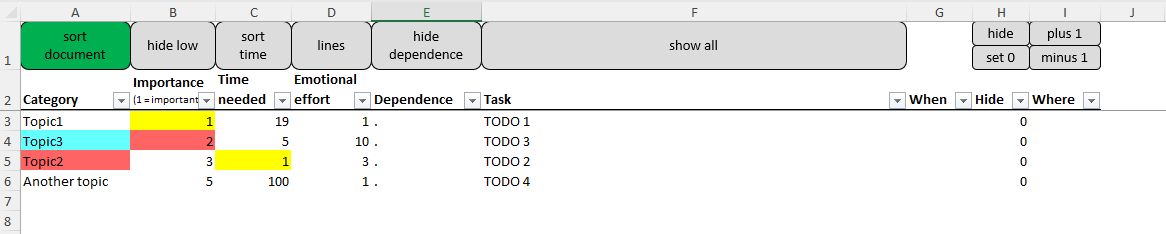
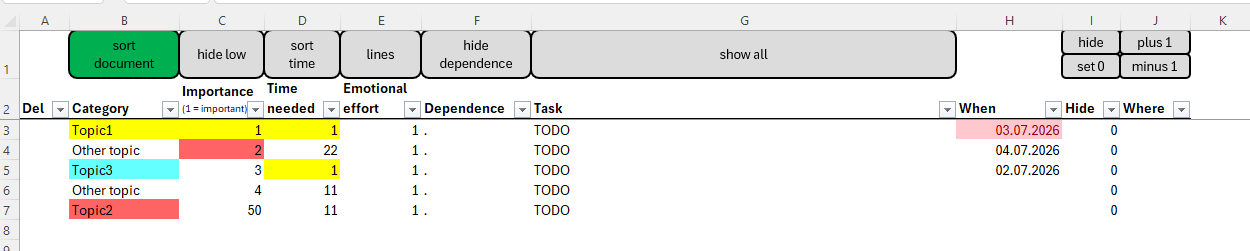
create row control column, minor other changes

diff --git a/README.md b/README.md
@@ -14,8 +14,9 @@ high-priority items, or tasks from specific categories.
 
 The VBA script creates a structured Excel sheet with the following columns:
 
-| Column               | Type      | Description                                                                                                                                                   |
-| -------------------- | --------- | ------------------------------------------------------------------------------------------------------------------------------------------------------------- |
+| Column               | Type      | Description |
+|---|---|---|
+| **Del **                   | x/check   | In the row control column, you can use special marker values that determine whether a row should be deleted ("x") or whether only selected rows should be displayed ("check").|
 | **Category**         | Text      | The category of your task. *(Required for the buttons to work)*                                                                                                                       |
 | **Importance**       | Number    | Priority level: 1 = important. If set to 0, the task is not a real to-do, but something to keep in mind. Rows with value 0 are marked light grey. Value 1 cells are marked yellow. Value 2 cells are marked red as soon as you sort the document via "sort documents."|
 | **Time needed**      | Number    | Estimated time required (unit-free: e.g., 1 = short, 100 = long).                                                                                              |
